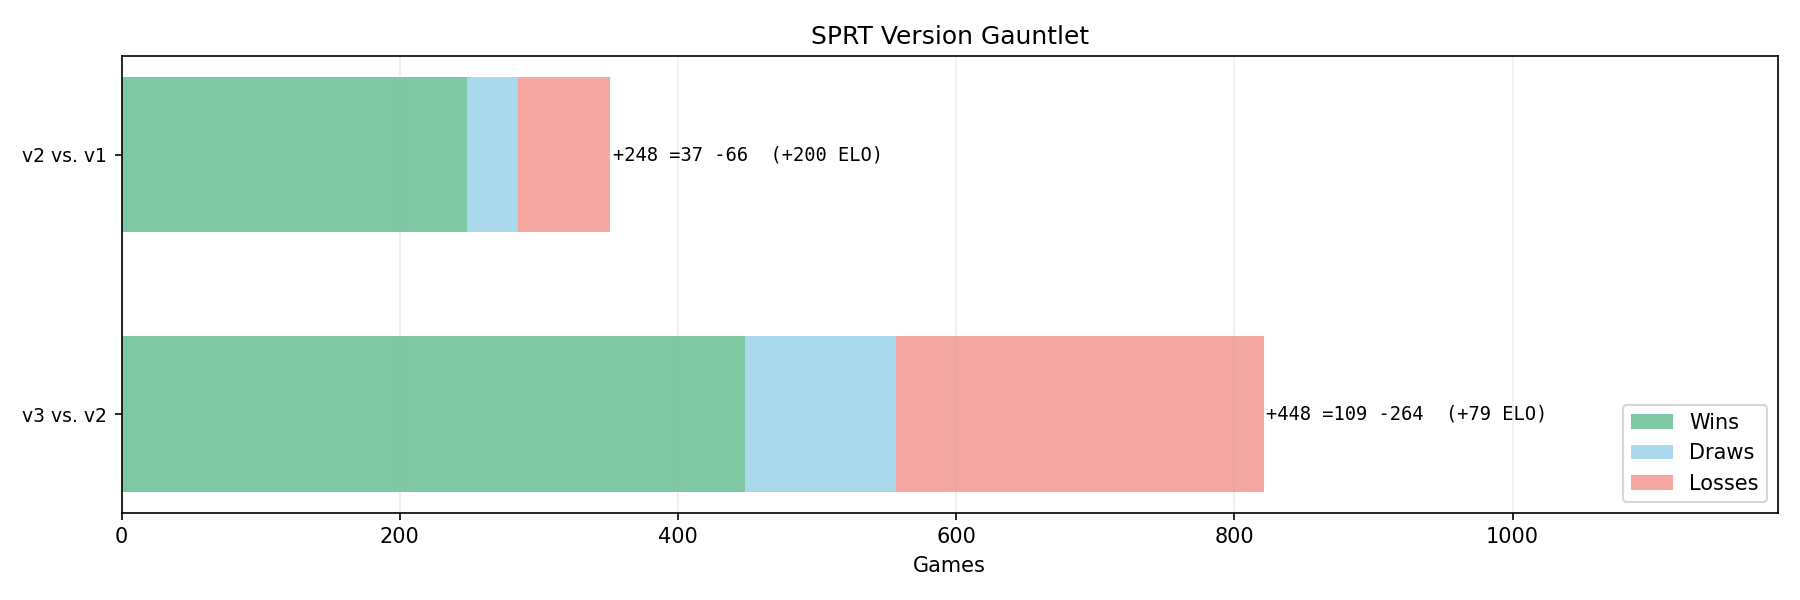
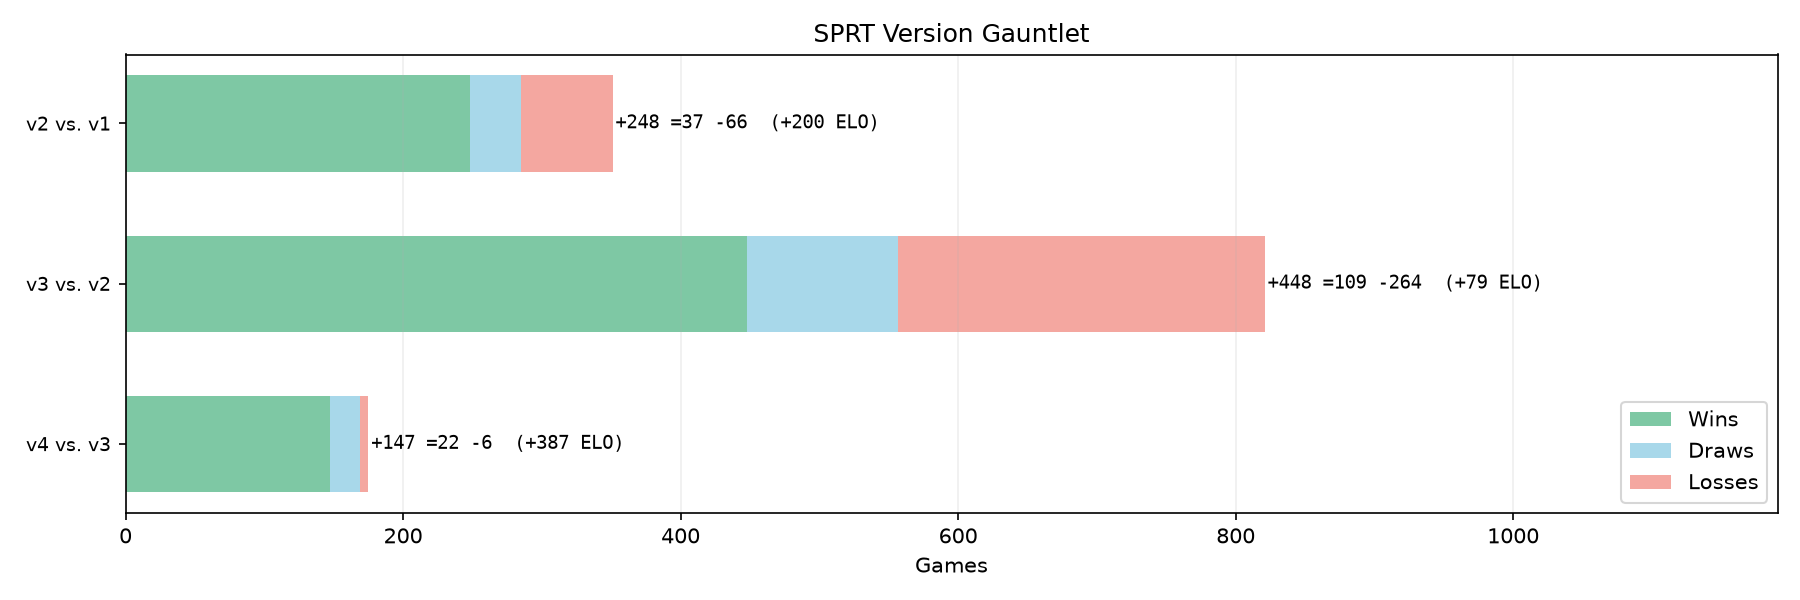
Update performance figures and footnotes for v4
Regenerate the NPS, depth-vs-time, and SPRT Elo-gain/WDL charts to include
v4 (v4 vs v3 SPRT: +387 Elo, H1 accepted). Update footnotes: mark the
v4-generated plots, keep v3 on the unchanged ones (Elo estimate, NNUE
training, search trace), and drop the stale version note from the
multi-version gauntlet charts.

diff --git a/README.md b/README.md
@@ -50,7 +50,7 @@ logo; [Claude](https://en.wikipedia.org/wiki/Claude_(language_model)) was used t
 <p align="center">
   <img src="./figs/sprt_gauntlet_elo.png" width="480" alt="SPRT Elo Gain Per Version">
   <br>
-  <em>Elo gain per version via SPRT (0.5s/move, 2,678 ECO openings).<sup>3</sup></em>
+  <em>Elo gain per version via SPRT (0.5s/move, 2,678 ECO openings).</em>
 </p>
 
 ### Win / Draw / Loss Breakdown
@@ -58,7 +58,7 @@ logo; [Claude](https://en.wikipedia.org/wiki/Claude_(language_model)) was used t
 <p align="center">
   <img src="./figs/sprt_gauntlet_wdl.png" width="600" alt="SPRT W/D/L Breakdown">
   <br>
-  <em>Win/draw/loss breakdown per version pair from the SPRT gauntlet.<sup>3</sup></em>
+  <em>Win/draw/loss breakdown per version pair from the SPRT gauntlet.</em>
 </p>
 
 ### Example Games
@@ -188,7 +188,7 @@ To reduce the [Horizon Effect](https://www.chessprogramming.org/Horizon_Effect),
 <p align="center">
   <img src="./figs/depth_vs_time.png" width="600" alt="Search Depth vs Time">
   <br>
-  <em>Search depth vs time across four standard positions (log scale).<sup>3</sup></em>
+  <em>Search depth vs time across four standard positions (log scale).<sup>5</sup></em>
 </p>
 
 #### Time Management
@@ -444,5 +444,6 @@ python3 scripts/mine_magics.py
 
 <sup>1</sup> Lichess rating
 <sup>2</sup> Chess.com rating
-<sup>3</sup> All plots use [OmegaZero v3](https://github.com/noah8368/OmegaZero/releases/tag/v3)
+<sup>3</sup> Generated with [OmegaZero v3](https://github.com/noah8368/OmegaZero/releases/tag/v3)
 <sup>4</sup> All example games use [OmegaZero v1](https://github.com/noah8368/OmegaZero/releases/tag/v1)
+<sup>5</sup> Generated with [OmegaZero v4](https://github.com/noah8368/OmegaZero/releases/tag/v4)
